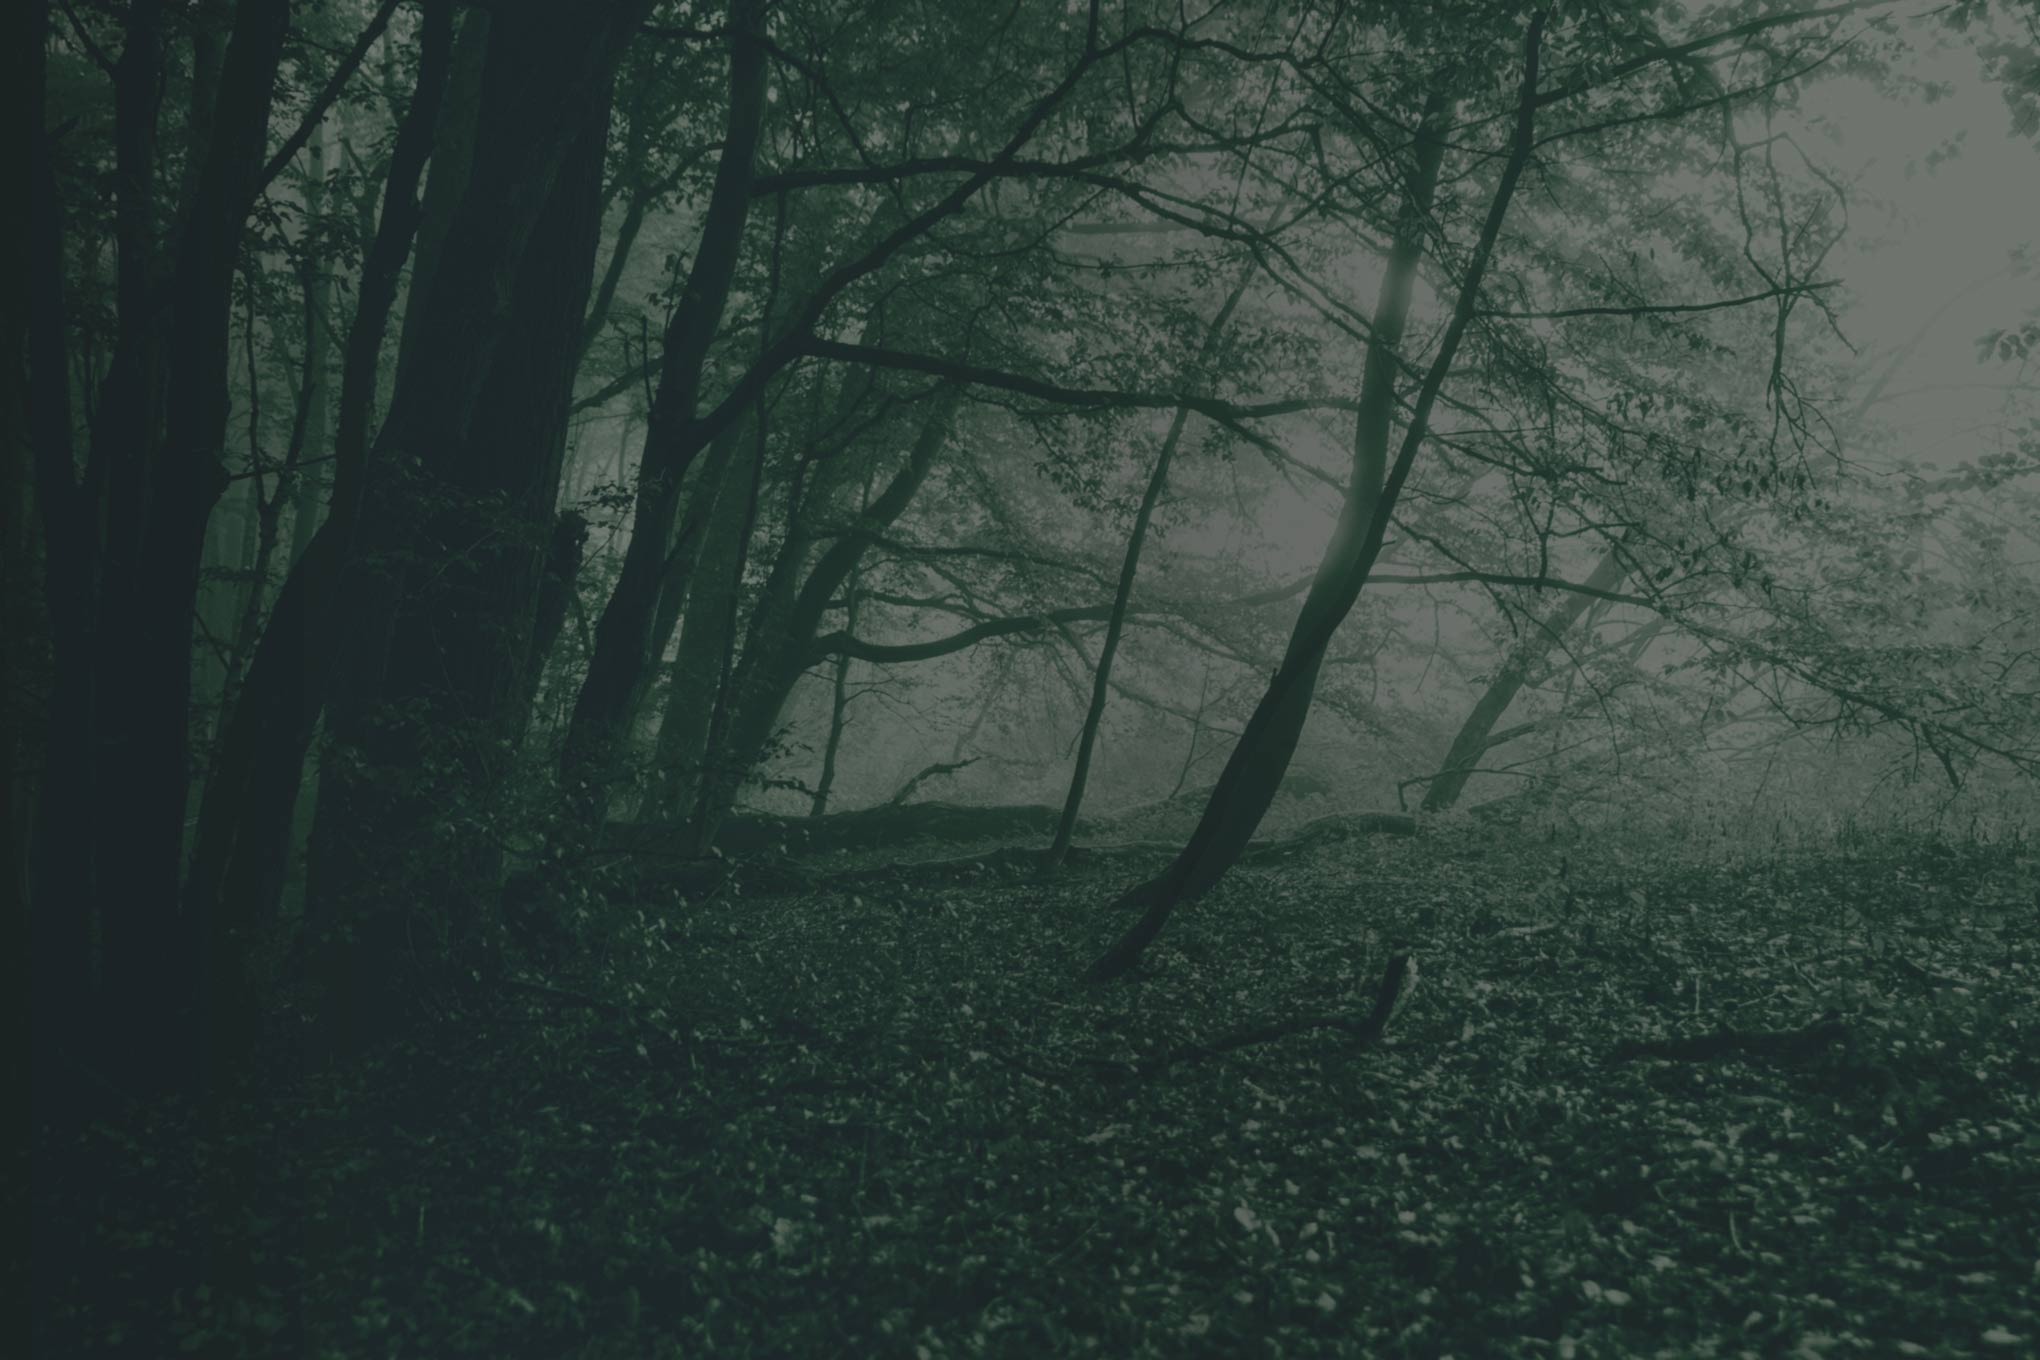
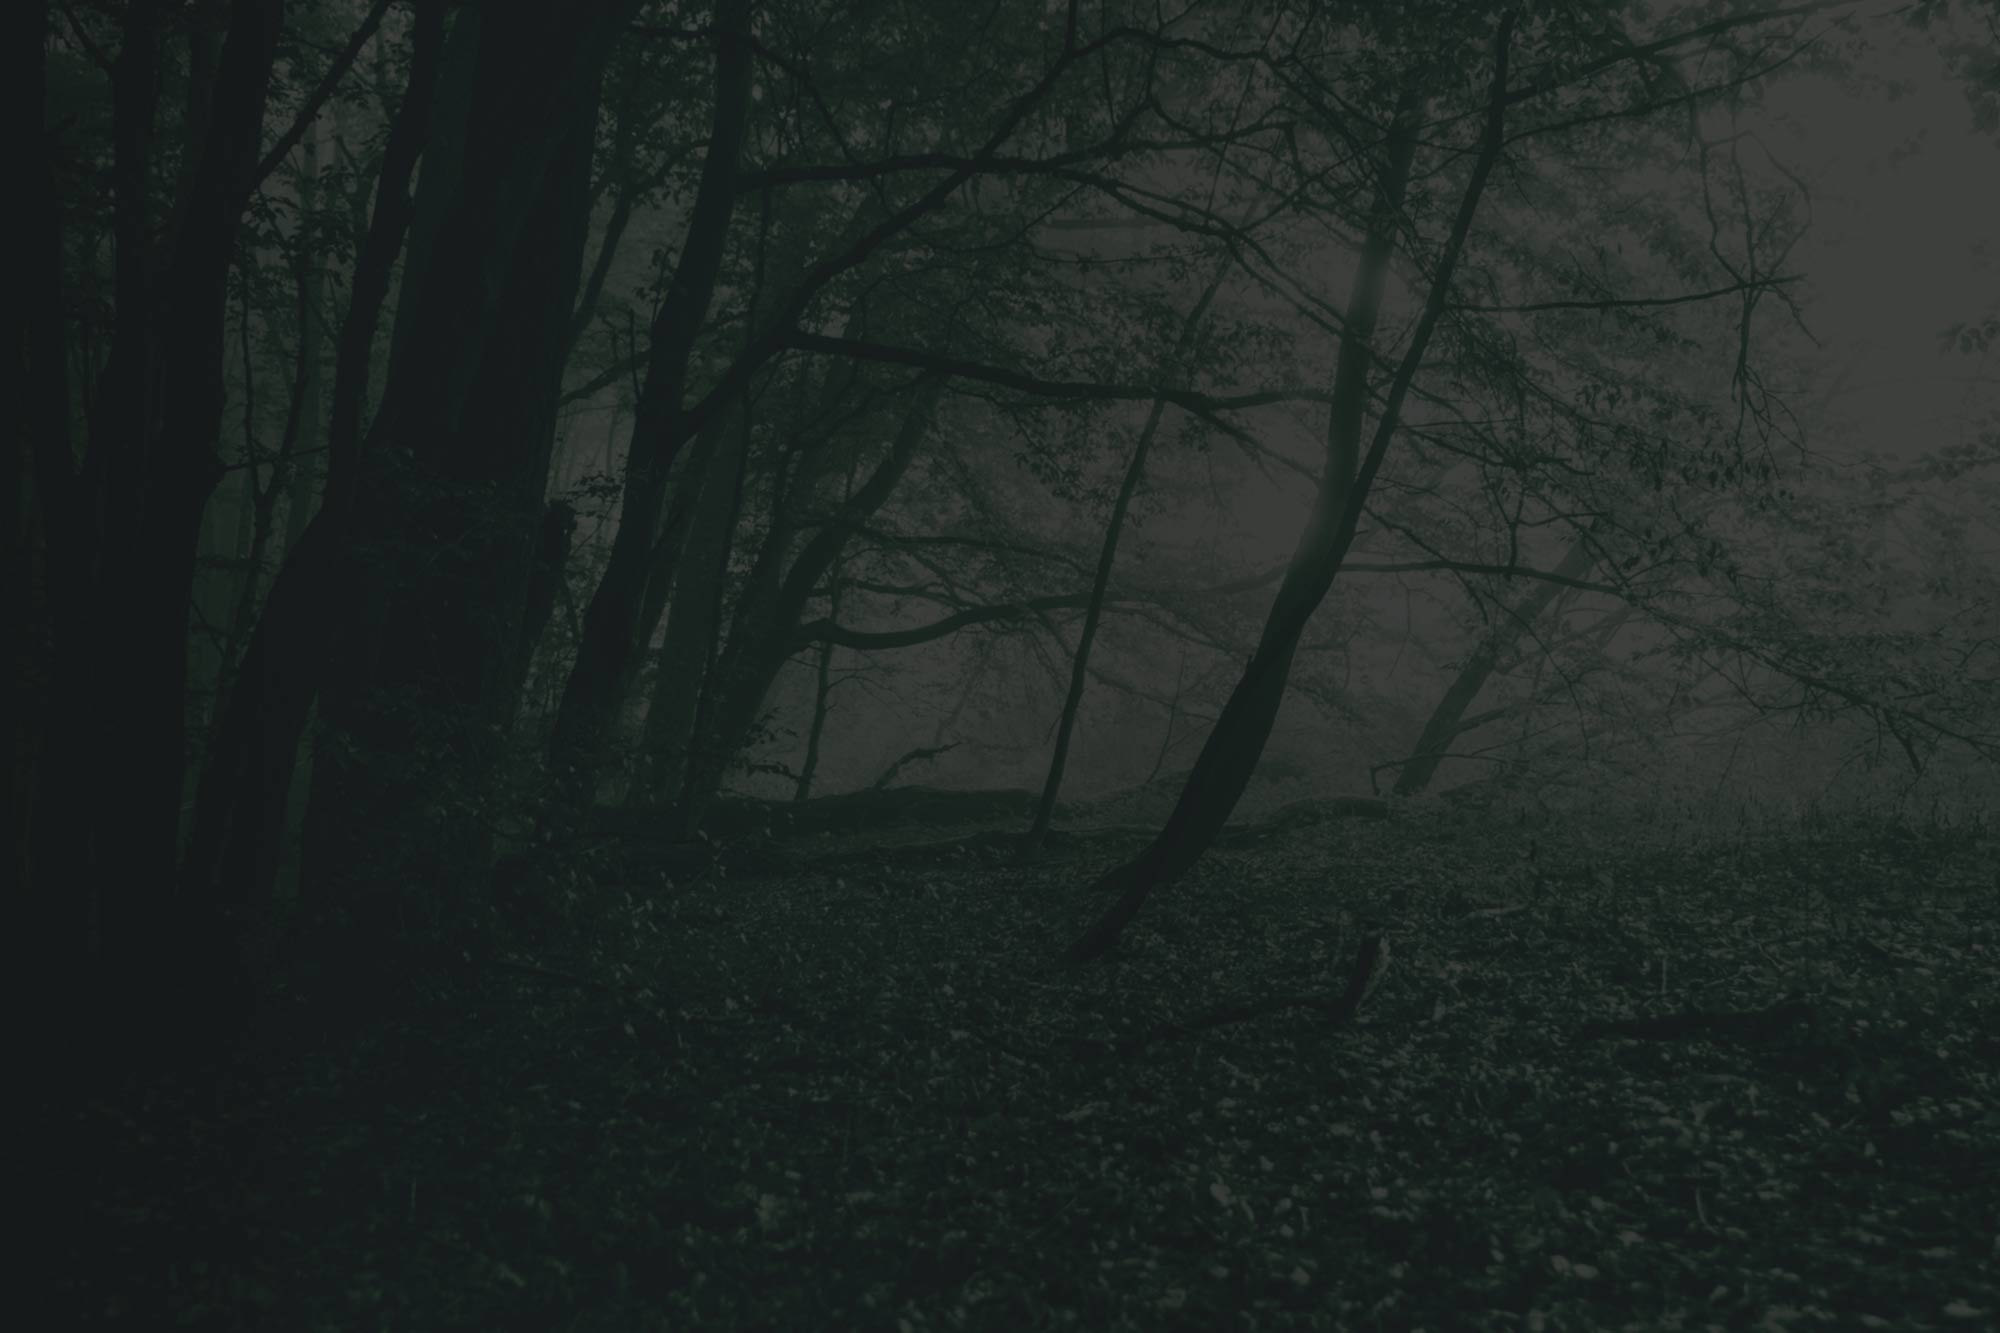
optimized bg for mobile

diff --git a/_scss/layout.scss b/_scss/layout.scss
@@ -3,10 +3,15 @@ body {
     flex-direction: column;
     align-items: flex-end;
     background-image: url('../images/website-bg.jpg');
+
+    @media screen and (max-width: 800px) {
+        background-image: url('../images/website-bg-mobile.jpg');
+    }
+
     background-color: rgb(54, 73, 54);
     background-attachment: fixed;
     background-size: cover;
-    background-position: top;
+    background-position: left;
     background-repeat: no-repeat;
 
     margin: 0;
@@ -18,7 +23,7 @@ content {
     display: block;
     padding: 3px;
 
-    @media screen and (min-width: 700px) {
+    @media screen and (min-width: 1200px) {
         width: 75%;
         margin-right: 5rem;
     }

diff --git a/_scss/portfolio.scss b/_scss/portfolio.scss
@@ -1,7 +1,7 @@
 #portfolio {
     display: grid;
     grid-template-columns: 50% 50%;
-    
+
     @media screen and (max-width: 500px) {
         display: flex;
         flex-direction: column
@@ -14,7 +14,7 @@ $row-height: 35px;
 .portfolio-project {
     margin-bottom: 15px;
     display: grid;
-    grid-template-rows: auto;
+    grid-template-rows: $row-height auto;
     grid-template-columns: $col-width auto;
     @extend %clear-panel;
     margin-left: 1rem;
